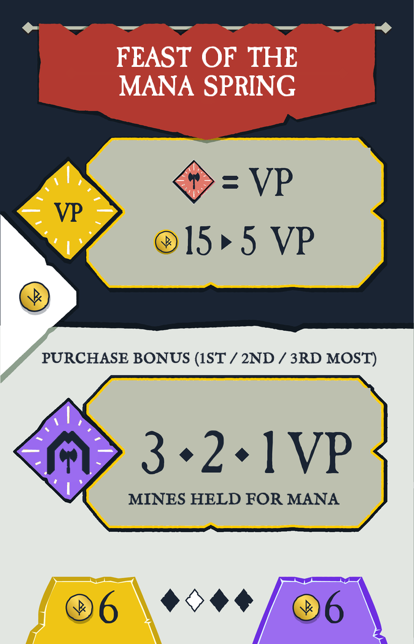
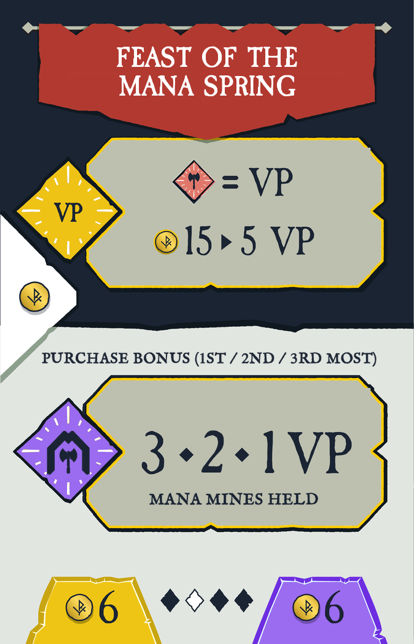
Deploy: Rocky Ventures logic 0.0.48 + UI 0.0.155 (Mana Spring Feast: Mana mines held)

Changed region(s): [[0.3188, 0.7453, 0.8116, 0.8075]]

diff --git a/games/rocky-ventures/src/operations/feastBonus.ts b/games/rocky-ventures/src/operations/feastBonus.ts
@@ -46,7 +46,7 @@ const minesHeld = (ore: OreKind): Measure => (state, player) =>
 export const FeastCategories: FeastCategory[] = [
     { id: 'tool', cardId: FirstEraCardId, name: 'Feast of the Lantern', measureLabel: 'tool level', shortLabel: 'TOOL', measure: (_state, player) => player.toolLevel },
     { id: 'weapon', cardId: FirstEraCardId, name: 'Feast of the Forge', measureLabel: 'weapon level', shortLabel: 'WEAPON', measure: (_state, player) => player.weaponLevel },
-    { id: 'manaMines', cardId: FirstEraCardId, name: 'Feast of the Mana Spring', measureLabel: 'mines held that give Mana', shortLabel: 'MANA', measure: minesHeld(OreKind.Silver) },
+    { id: 'manaMines', cardId: FirstEraCardId, name: 'Feast of the Mana Spring', measureLabel: 'Mana mines held', shortLabel: 'MANA', measure: minesHeld(OreKind.Silver) },
     { id: 'hits', cardId: SecondEraCardId, name: 'Feast of the Warrior', measureLabel: 'hits (battle axe)', shortLabel: 'HITS', measure: (_state, player) => player.huntHits ?? 0 },
     { id: 'shares', cardId: SecondEraCardId, name: 'Feast of the Mogul', measureLabel: 'share multipliers', shortLabel: 'SHARES', measure: FeastBuyerBonuses[SecondEraCardId]!.measure },
     { id: 'gems', cardId: SecondEraCardId, name: 'Feast of the Hoard', measureLabel: 'unspent gems', shortLabel: 'GEMS', measure: (_state, player) => player.gems },

diff --git a/games/rocky-ventures/src/definition/version.ts b/games/rocky-ventures/src/definition/version.ts
@@ -1,2 +1,2 @@
 // Generated by tools/scripts/write-game-version.cjs
-export const GAME_VERSION = '0.0.47'
+export const GAME_VERSION = '0.0.48'
